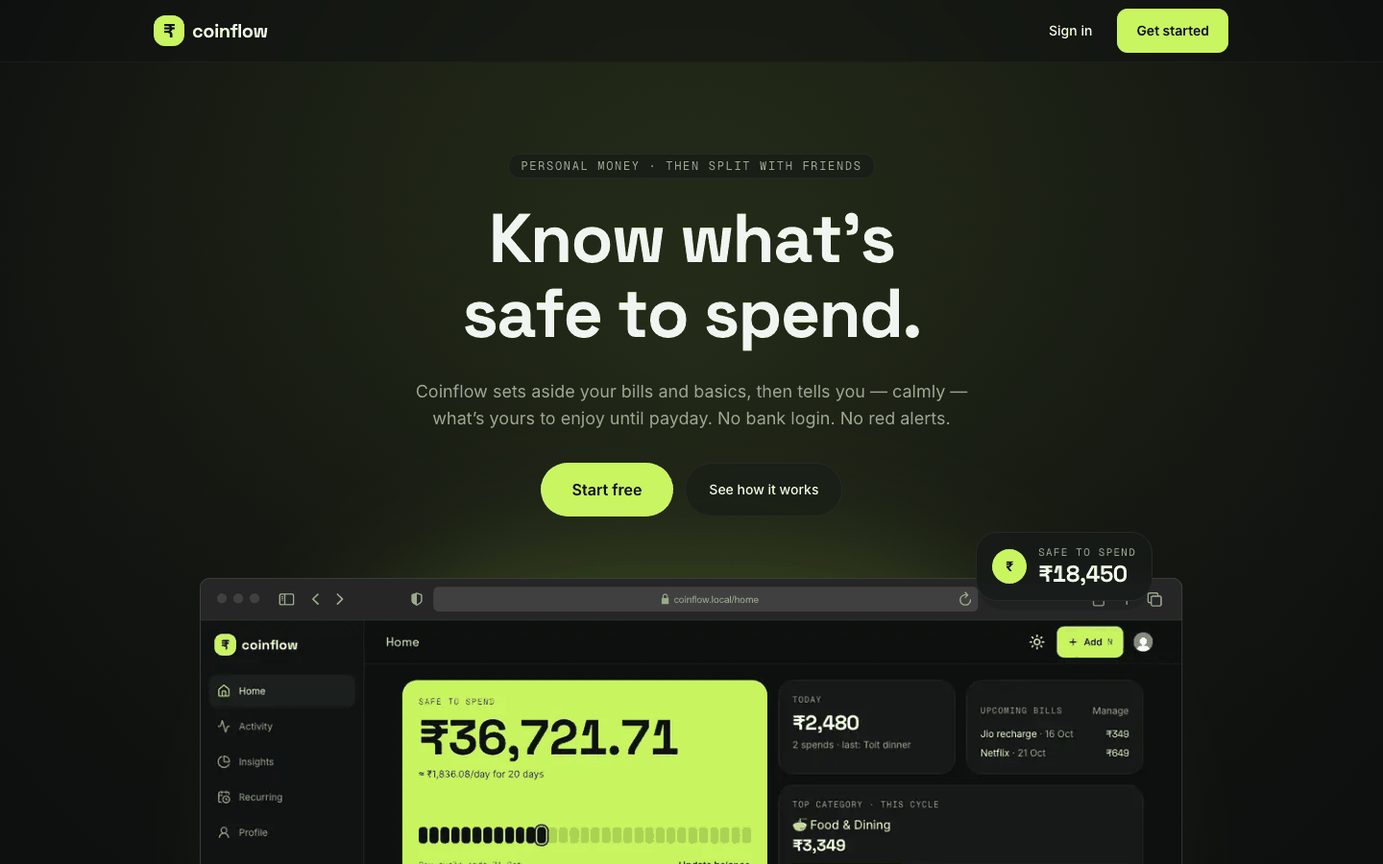
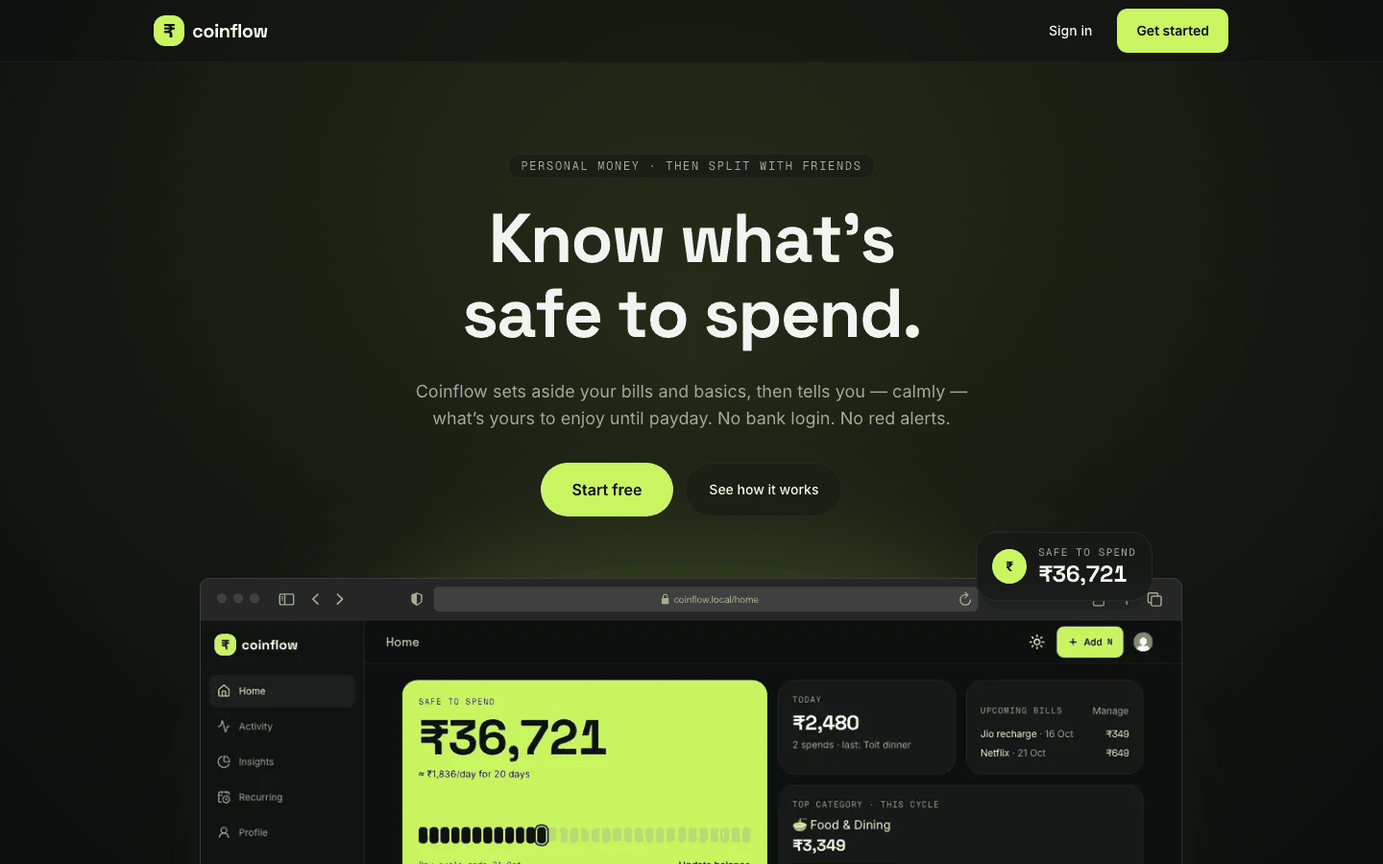
docs(hci): final-review fixes reflected; recaptured screens and Lighthouse
- Screens: landing, home, quick add, undo toast, insights (no capture-only
  style), insights budget and profile recaptured from the production build.
- Removed the limitations these fixes resolve (Insights overflow, chips not
  recent-first, slow ticker, Enter on toggles, hard-coded badge, clipped
  toggle, toast over the tabs); corrected Enter-to-save scope, ticker
  behaviour, focus rings (new contrast row), axe count and the reflow check.
- Lighthouse re-measured: landing 92/81, /home desktop 99, mobile median 91
  (was 77-79). Test run: verify at ce776b2.

diff --git a/docs/hci/part-a-rationale.md b/docs/hci/part-a-rationale.md
@@ -4,10 +4,9 @@ Part A of Coinflow is the personal-finance foundation. This document explains wh
 
 **Evidence conventions**
 
-- **Screenshots** are in [`screens/`](screens/), captured 2026-10-12 from a production build with `reducedMotion: 'reduce'`. Each screen has a `-1440` capture (1440×900, dark) and a `-390` capture (390×844, light).
+- **Screenshots** are in [`screens/`](screens/), captured 2026-10-12 from a production build with `reducedMotion: 'reduce'`. Each screen has a `-1440` capture (1440×900, dark) and a `-390` capture (390×844, light). Landing, Home, Quick add, Undo toast, both Insights screens and Profile were recaptured after the final review fixes; the rest are unchanged.
 - **Tests** are cited as `e2e/<file>.spec.ts › <title>` (Playwright, `apps/web/e2e/`), or by path under `apps/web/src/` for unit and integration tests. Code is cited by path under `apps/web/src/`.
-- **What was re-run for this document (2026-10-12, commit `4893b1c`):** six E2E spec files, in both the desktop and mobile projects. They were `a11y`, `keyboard` (desktop only), `reduced-motion`, `budgets`, `quick-add-undo` and `recurring-draft`. **33/33 passed**, including the one setup test.
-- **Not re-run:** `onboarding.spec.ts`, `theme.spec.ts` and `landing-signed-in.spec.ts`. They passed in the earlier full `pnpm verify` run at the same commit, which recorded 41/41 E2E, 261 unit and 118 integration tests (per the project's controller ledger).
+- **Test run behind this document:** a full `pnpm verify` at commit `ce776b2` (2026-10-12) passed: lint, typecheck, 273 unit, 119 integration, build, **54 E2E passed** (7 skipped: the phone-only reflow checks in the desktop project) and the landing Lighthouse gate.
 
 | Screen | Desktop (dark) | Mobile (light) | Account / state |
 |---|---|---|---|
@@ -16,14 +15,12 @@ Part A of Coinflow is the personal-finance foundation. This document explains wh
 | Quick add (₹450 · Food & Dining) | [quick-add-1440](screens/quick-add-1440.png) | [quick-add-390](screens/quick-add-390.png) | demo |
 | Undo toast | [undo-toast-1440](screens/undo-toast-1440.png) | [undo-toast-390](screens/undo-toast-390.png) | demo; undone after capture |
 | Activity | [activity-1440](screens/activity-1440.png) | [activity-390](screens/activity-390.png) | demo |
-| Insights (charts) | [insights-1440](screens/insights-1440.png) | [insights-390](screens/insights-390.png)¹ | demo |
-| Insights (over-plan soft plan) | [insights-budget-1440](screens/insights-budget-1440.png) | [insights-budget-390](screens/insights-budget-390.png)¹ | demo + Food & Dining plan of ₹3,000 |
+| Insights (charts) | [insights-1440](screens/insights-1440.png) | [insights-390](screens/insights-390.png) | demo |
+| Insights (over-plan soft plan) | [insights-budget-1440](screens/insights-budget-1440.png) | [insights-budget-390](screens/insights-budget-390.png) | demo + Food & Dining plan of ₹3,000 |
 | Recurring | [recurring-1440](screens/recurring-1440.png) | [recurring-390](screens/recurring-390.png) | demo |
 | Recurring draft on Home | [recurring-draft-1440](screens/recurring-draft-1440.png) | [recurring-draft-390](screens/recurring-draft-390.png) | E2E account: demo seed + one bill due today |
 | Onboarding step 3 | [onboarding-step3-1440](screens/onboarding-step3-1440.png) | [onboarding-step3-390](screens/onboarding-step3-390.png) | fresh E2E account |
 | Profile, motion setting | [profile-motion-1440](screens/profile-motion-1440.png) | [profile-motion-390](screens/profile-motion-390.png) | demo |
-
-¹ For the two mobile Insights captures, the screen-reader-only chart tables (`table.sr-only`) were hidden by a style applied only during capture. Those tables overflow the page at 390 px (§6, known bug, being fixed), and the overflow would otherwise push the bottom navigation out of frame.
 
 ---
 
@@ -53,11 +50,11 @@ Principles are cited as Nielsen heuristics (N1–N10), Fitts's law, Jakob's law,
 | **Whole-rupee display** (change from spec §7.1) | N8; honest rounding | The hero and the pace are **floored** to whole rupees. Paise are noise at 48–72 px, and flooring never overstates what the user has. Other amounts still show non-zero paise. | [home-390](screens/home-390.png); `lib/sts-display.test.ts › positive: whole rupees, rounded down, for both the headline and the pace` |
 | **Pay-cycle dot strip** | N2 match with the real world (payday-to-payday budgeting); status not by colour alone | One bar per day of the cycle: past days solid, future days at 15 % opacity, today ringed. A single `role="img"` reads "Day N of M in this pay cycle". | [home-1440](screens/home-1440.png); `lib/cycle-dots.test.ts › marks past, today and future days of the cycle` |
 | **Amount-first quick add** | Fitts's law; N7 efficiency | The order is amount, category, Save. Everything else is folded into "Note, date & method". Below 1024 px wide (narrow screens; the rule is width-based, not touch detection), an on-screen keypad replaces the OS keyboard (`inputMode="none"`). Save is full-width, 56 px, pinned to the sheet bottom (thumb zone, never below the fold at 390×844), and repeats the amount ("Save ₹450"). | [quick-add-390](screens/quick-add-390.png); `e2e/quick-add-undo.spec.ts › quick add in ≤ 3 interactions, then undo restores Safe-to-Spend` |
-| **Category chips** | Recognition over recall; N6; WCAG 2.1.1 | Categories are visible 48 px chips (emoji plus name), not a dropdown. They form an ARIA `radiogroup` with a roving tab stop: Tab enters, arrows move and select, Space selects. The emoji is `aria-hidden`. | [quick-add-1440](screens/quick-add-1440.png); `e2e/keyboard.spec.ts › quick add is completable from the keyboard: N, amount, Tab to a category, Space, Enter` |
-| **Enter-to-save on a chip** (added during testing) | N7 accelerators; keyboard-first logging (spec §4.6) | Enter on a chip (`role="radio"`) submits the form. Before this fix, keyboard users could not finish. A held Enter and IME composition are both ignored, and fields keep their native Enter. | same keyboard spec; `lib/quick-add-keys.test.ts › submits on Enter over a radio chip or toggle` |
+| **Category chips** | Recognition over recall; N6; N7; WCAG 2.1.1 | Categories are visible 48 px chips (emoji plus name), not a dropdown, ordered **most recently used first** for the chosen kind (spec §4.6), then the built-in order. The order is fixed when the sheet opens, so chips never move under the pointer. They form an ARIA `radiogroup` with a roving tab stop: Tab enters, arrows move and select, Space selects. The emoji is `aria-hidden`. | [quick-add-1440](screens/quick-add-1440.png); `lib/category-order.test.ts › puts categories first in order of their newest use, then the rest in server order`; `e2e/keyboard.spec.ts › quick add is completable from the keyboard: N, amount, Tab to a category, Space, Enter` |
+| **Enter-to-save on a chip** (added during testing) | N7 accelerators; keyboard-first logging (spec §4.6); N5 | Enter on a **category chip** submits the form; before this, keyboard users could not finish. Enter on the Expense/Income or "Paid with" toggles keeps its native meaning (select), because intercepting it saved the old value. A held Enter and IME composition are ignored, and fields keep their native Enter. | same keyboard spec; `lib/quick-add-keys.test.ts › submits on Enter over a category chip`; `› leaves the Expense/Income toggle to its native Enter (selects, does not save the old value)` |
 | **⌘K / Ctrl K palette ("Ask Coinflow" pill)** | Jakob's law (the ⌘K convention from Slack, Linear and VS Code); N7; N10 | The pill opens a palette that navigates, switches theme, searches, and parses "250 food lunch" into a prefilled quick add; the placeholder teaches the syntax. **N** opens quick add (not while typing). Part C turns the same pill into the agent, so its location is learned now. | [home-1440](screens/home-1440.png); `lib/quick-command.test.ts › "450 chai" style input resolves through synonyms and keeps the word as the note` |
-| **Undo toast + ⌘Z** | N3 user control and freedom; N1; SRS §4.1 10 s undo | Every ledger create, edit and delete raises a toast ("Added ₹450 expense") with Undo and a seconds countdown. ⌘Z / Ctrl Z undoes the latest change, except inside text fields. The toast shows for **10 s**; the server accepts undo for **30 s** to cover slow networks and hover-paused toasts. | [undo-toast-1440](screens/undo-toast-1440.png) (hero ₹36,721 → ₹36,271, exactly ₹450); `e2e/quick-add-undo.spec.ts › quick add in ≤ 3 interactions, then undo restores Safe-to-Spend`; `server/services/audit.int.test.ts › refuses after the 30 s window` |
-| **Recurring drafts (staging)** | SRS staging principle; N3; N5 error prevention | A due bill becomes a **draft** under "Waiting for you", with Confirm / Edit / Skip and the line "Scheduled items don't count as spent until you confirm them." Drafts already count as committed money, so **confirming never changes Safe-to-Spend**. §6 lists one same-day edge case. | [recurring-draft-1440](screens/recurring-draft-1440.png) (same seed plus a ₹119 draft; the hero is ₹119 below [home-1440](screens/home-1440.png)); `e2e/recurring-draft.spec.ts › a due bill appears as a draft and can be confirmed`; `server/services/safe-to-spend.int.test.ts › confirming a due-today recurring draft after a same-day check-in leaves Safe-to-Spend unchanged` |
+| **Undo toast + ⌘Z** | N3 user control and freedom; N1; SRS §4.1 10 s undo | Every ledger create, edit and delete raises a toast ("Added ₹450 expense", "Paused Netflix") with Undo and a seconds countdown. Below 1024 px it sits above the Ask pill and the tabs, so navigation stays usable for the 10 s. ⌘Z / Ctrl Z (hint shown per platform) undoes the latest change, except inside text fields. The toast shows for **10 s**; the server accepts undo for **30 s** to cover slow networks and hover-paused toasts. | [undo-toast-1440](screens/undo-toast-1440.png) (hero ₹36,721 → ₹36,271, exactly ₹450); `e2e/quick-add-undo.spec.ts › quick add in ≤ 3 interactions, then undo restores Safe-to-Spend`; `server/services/audit.int.test.ts › refuses after the 30 s window` |
+| **Recurring drafts (staging)** | SRS staging principle; N3; N5 error prevention | A due bill becomes a **draft** under "Waiting for you", with Confirm / Edit / Skip and the line "Scheduled items don't count as spent until you confirm them." Drafts already count as committed money, so **confirming never changes Safe-to-Spend**. After Confirm or Skip, focus moves to the next draft's Confirm, else the Recent heading. §6 lists one same-day edge case. | [recurring-draft-1440](screens/recurring-draft-1440.png) (same seed plus a ₹119 draft; the hero is ₹119 below [home-1440](screens/home-1440.png)); `e2e/recurring-draft.spec.ts › a due bill appears as a draft and can be confirmed` (also asserts focus); `server/services/safe-to-spend.int.test.ts › confirming a due-today recurring draft after a same-day check-in leaves Safe-to-Spend unchanged` |
 | **Soft budgets with neutral overflow** | Non-punitive feedback; status not by colour alone | Plans are "Optional monthly guides … Going over is just information, no alarms." Going over adds a **hatched** end segment and "₹349 over plan" in warm grey (`--neutral-negative`), not red. The slider is keyboard-operable. | [insights-budget-1440](screens/insights-budget-1440.png); `e2e/budgets.spec.ts › budget slider is keyboard-operable and over-plan copy is neutral` (asserts the label colour is not saturated red) |
 | **Category comparison: "vs the previous N days"** (change from spec §4.9) | N2; N4 consistency; not colour alone | The spec asked for this cycle vs last cycle per category. The build instead compares any selected range with the **previous window of the same length**, and the caption says so. Reason: halfway through a cycle, a partial cycle against a full one would always look like an improvement, and a same-length window also works for the 3-month and custom ranges. The previous bars are hatched and labelled. | [insights-1440](screens/insights-1440.png); `components/insights/category-chart.tsx`; `server/services/insights.int.test.ts › groups by IST day and compares with the previous window` |
 | **Balance check-in instead of bank login** | N2; trust (no third-party bank access); low effort | Onboarding step 3 asks "Roughly how much is in your account right now?" and says "No bank login. A rough number is fine…". A live ₹ preview shows how the input was parsed ("₹42,500"). "Update balance" on the hero corrects drift later. | [onboarding-step3-390](screens/onboarding-step3-390.png); `server/services/safe-to-spend.int.test.ts › uses the latest check-in and only confirmed activity after it` |
@@ -72,7 +69,7 @@ Principles are cited as Nielsen heuristics (N1–N10), Fitts's law, Jakob's law,
 
 ## 3. Motion rationale
 
-One preference (`components/providers/motion-pref.tsx`: `on`/`off`/`system`) gates all motion; heavy effects wait until the OS setting is known. Under reduced motion, `MotionConfig` is `reducedMotion="always"` and a global `!important` rule in `app/globals.css` (on `html[data-reduce-motion="true"]`) sets:
+One preference (`components/providers/motion-pref.tsx`: `on`/`off`/`system`) gates all motion; heavy effects wait until the OS setting is known. Under reduced motion, `MotionConfig` is `reducedMotion="always"` and a global `!important` rule in `app/globals.css` (on `html[data-reduce-motion="true"]`, mirrored under `prefers-reduced-motion: reduce` so CSS keyframes are already stopped before hydration) sets:
 
 - CSS animations to 1 ms.
 - Transitions to **120 ms**, within the spec's "≤ 150 ms fades".
@@ -84,10 +81,10 @@ Every built §7.2 component, with its fallback as found in code:
 | Dither WebGL (React Bits) | Landing hero | Delight | Not mounted; static CSS gradient. Dimmed so text stays ≥ 4.5:1 (§4.3). |
 | Split Text (CSS-only `SplitHeading`) | Landing h1 | Delight | `animation: none`. Server-rendered; fully visible within ~650 ms when animated. |
 | Animated Beam + GSAP ScrollTrigger (Magic UI) | Landing money-flow | Continuity (income → bills → safe-to-spend) | Static connectors; beams and the scroll rise are not rendered. |
-| Number Ticker (Magic UI) via `AmountTicker` | Home, onboarding Done, landing | Feedback | Static text. `data-amount` and an sr-only label always carry the final value. |
-| Counter (React Bits) via `AmountRoll` | Quick-add readout | Feedback per keypress | Static text; when animated, the retuned spring settles in < 300 ms. |
+| Number Ticker (Magic UI, adapted to a 0.8 s tween) via `AmountTicker` | Home, onboarding Done, landing | Feedback | Static text. `data-amount` and an sr-only label always carry the final value. When animated, Home and onboarding start from the real amount (the server HTML already shows it) and only later changes count; landing counts up from ₹0. |
+| Counter (React Bits) via `AmountRoll` | Quick-add readout | Feedback per keypress | Static text at the same 40–48 px size; when animated, the retuned spring settles in < 300 ms. |
 | Spotlight Card via `Tile`; Magic Card | App tiles; landing bento | Delight | Plain bordered section, no cursor effect. |
-| Blur Fade (Magic UI) via `Reveal` | Home (40 ms stagger), Insights, Recurring, landing | Continuity (reading order) | Plain `<div>`; content is present immediately. |
+| Blur Fade (Magic UI) via `Reveal` | Home tiles (40 ms stagger; not the Safe-to-spend hero, which paints without JS), Insights, Recurring, landing | Continuity (reading order) | Plain `<div>`; content is present immediately. |
 | Animated List (Magic UI) | Home "Recent" | Continuity (new row slides in) | Plain `<ul>`. |
 | Stepper (React Bits, adapted) | Onboarding | Continuity (direction) | 120 ms opacity fade; spinner static. |
 | Elastic Slider (React Bits) | Soft plans | Feedback | `elastic={false}`; keyboard stepping unchanged. |
@@ -95,7 +92,7 @@ Every built §7.2 component, with its fallback as found in code:
 | Animated Circular Progress (Magic UI) | Undo countdown | Status (time left) | Updates once a second instead of every 100 ms; the seconds label stays. |
 | Confetti (Magic UI / canvas-confetti), once | Onboarding Done | Delight | Never fires (preference gate + `disableForReducedMotion`). |
 | Animated Theme Toggler (Magic UI) | Top bar | Feedback | `animated={false}`; instant flip, no view transition. |
-| Lenis smooth scroll | Pages mounting `AppProviders` | Continuity | Not mounted. E2E asserts no `html.lenis` **on the landing page only**; on app pages it asserts `data-reduce-motion="true"` and no canvas (`e2e/reduced-motion.spec.ts`). |
+| Lenis smooth scroll | Pages mounting `AppProviders`; nested scrollers (palette list, sheets) keep the wheel | Continuity | Not mounted. E2E asserts no `html.lenis` **on the landing page only**; on app pages it asserts `data-reduce-motion="true"` and no canvas (`e2e/reduced-motion.spec.ts`). |
 | Recharts entry | Insights | Continuity | `isAnimationActive={false}`. |
 | Decorative set: Safari frame, Shimmer / Hover buttons, Marquee, Scroll Reveal, Progressive Blur, Border Beam (drafts tile) | Landing; Activity; Home | Delight / affordance | Safari and Progressive Blur are static. Shimmer is cut to 1 ms. Marquee and Scroll Reveal become static text (one sr-only copy carries it). Border Beam is not rendered. |
 
@@ -107,9 +104,9 @@ Every built §7.2 component, with its fallback as found in code:
 
 ### 4.1 axe
 
-`e2e/a11y.spec.ts` runs axe-core (`wcag2a`, `wcag2aa`, `wcag21aa`) and fails on any serious or critical violation. It covers these routes: `/`, `/sign-in`, `/sign-up`, `/onboarding` (fresh user), `/home`, `/activity`, `/insights`, `/recurring` and `/profile`. It also covers quick add, filled in and then with the undo toast fully faded in. Every route runs in both projects, for 20 checks. **Result on 2026-10-12: 20/20 passed, 0 serious or critical violations.**
+`e2e/a11y.spec.ts` runs axe-core (`wcag2a`, `wcag2aa`, `wcag21aa`) and fails on any serious or critical violation. It covers these routes: `/`, `/sign-in`, `/sign-up`, `/onboarding` (fresh user), `/home`, `/activity`, `/insights`, `/recurring` and `/profile`. It also covers quick add, filled in and then with the undo toast fully faded in, and the data states of `/insights` (chart tables present) and `/recurring` (a paused bill), seeded for the E2E user. Every check runs in both projects, for 24 checks. **Result: see the run recorded in the preface; 0 serious or critical violations.**
 
-The only exclusion is `.cl-footer` on the sign-in and sign-up pages, which is Clerk's third-party development-instance badge. Note that axe did not detect the mobile `/insights` overflow listed in §6.
+The only exclusion is `.cl-footer` on the sign-in and sign-up pages, which is Clerk's third-party development-instance badge. axe does not test reflow (WCAG 1.4.10), so `e2e/reflow.spec.ts` asserts that the landing page, onboarding and every app route, with data, never scroll sideways at 390 or 320 px, with and without reduced motion. That check found and now guards the `/insights` chart-table overflow fixed in the final review.
 
 ### 4.2 Keyboard-only walkthrough
 
@@ -119,6 +116,8 @@ The only exclusion is `.cl-footer` on the sign-in and sign-up pages, which is Cl
 - `e2e/keyboard.spec.ts › onboarding can be finished with Tab and Enter only`. All seven steps can be completed with Tab and Enter, and each step's visible "Step N of 7" text is asserted.
 - `e2e/quick-add-undo.spec.ts › quick add in ≤ 3 interactions, then undo restores Safe-to-Spend`. This asserts that ⌘Z / Ctrl Z typed inside the palette's text field does **not** trigger an app undo.
 - `e2e/budgets.spec.ts › budget slider is keyboard-operable and over-plan copy is neutral`. ArrowRight steps the plan slider to ₹5,500, as asserted through `aria-valuetext`.
+- `e2e/onboarding.spec.ts › Continue with a half-entered bill stops on the Bills step instead of dropping it`. The message appears and focus moves to "Add to schedule".
+- `e2e/recurring-draft.spec.ts › a due bill appears as a draft and can be confirmed`. After the last draft, focus lands on the Recent heading, not `<body>`.
 
 **Implemented, not separately tested**
 
@@ -126,12 +125,14 @@ The only exclusion is `.cl-footer` on the sign-in and sign-up pages, which is Cl
 - **⌘Z / Ctrl Z** undoes the latest change outside text fields (`components/undo/use-undo-shortcut.ts`). The E2E test uses the toast's Undo button instead.
 - **Esc** closes dialogs and sheets (Radix default).
 - **Arrow keys** move between category chips and select them (`components/quick-add/category-chips.tsx:18`).
-- **Focus returns to the opener** (or the visible Add button) when quick add closes (`components/quick-add/quick-add-sheet.tsx:285–296`).
-- **Focus after a delete** moves to the next row, else the previous row, else the `<h1>`. This is implemented in Activity (`components/activity/activity-view.tsx:66–74`) and Recurring (`components/recurring/recurring-view.tsx:89–96`).
+- **Focus returns to the opener** (or the visible Add button) when quick add closes (`components/quick-add/quick-add-sheet.tsx:291–306`).
+- **Focus after a delete** moves to the next row, else the previous row, else the `<h1>`. This is implemented in Activity (`components/activity/activity-view.tsx:66–75`) and Recurring (`components/recurring/recurring-view.tsx:93–101`).
+- **Focus is never hidden** behind the sticky top bar, the tabs or the Ask pill (WCAG 2.4.11): `scroll-padding` on the root (`app/globals.css`) makes the browser scroll a focused control clear of them. Checked by tabbing through Home, Activity, Recurring and Profile at 390 and 1440 px (0 obscured stops); not an automated test.
+- **Focus rings** are the solid `--ring` token (6.13:1 on light cards, 14.07:1 on dark); the earlier 50–60 % rings measured about 2.2–2.5:1 in the light theme.
 
 ### 4.3 Contrast
 
-`pnpm --filter web test src/styles.tokens.test.ts` gives **40/40 passed**. The test reads both themes' tokens from `globals.css` and enforces 13 pairs per theme. Six key pairs are shown below, with ratios from the same WCAG formula as `lib/contrast.ts`.
+`pnpm --filter web test src/styles.tokens.test.ts` gives **45/45 passed**. The test reads both themes' tokens from `globals.css` and enforces 15 pairs per theme, and fails if any file uses a translucent focus ring (`ring-ring/N`). Seven key pairs are shown below, with ratios from the same WCAG formula as `lib/contrast.ts`.
 
 | Pair | Minimum | Light | Dark |
 |---|---|---|---|
@@ -141,22 +142,23 @@ The only exclusion is `.cl-footer` on the sign-in and sign-up pages, which is Cl
 | `neutral-negative` (over plan) on `card` | 4.5 | 5.91 | 8.21 |
 | slider `track` on `card` (non-text) | 3 | 3.34 | 3.71 |
 | `foreground` (thumb border) on `track` | 3 | 5.40 | 4.34 |
+| focus `ring` on `card` / `background` (non-text) | 3 | 6.13 / 5.63 | 14.07 / 15.17 |
 
 The file also checks text over the landing dither's worst-case and brightest pixels (lowest 5.01:1) and the money-flow beam path (≥ 3:1; 4.23 light, 4.48 dark). The neutral over-plan colour passes AA in both themes, so "non-punitive" does not mean "low contrast".
 
 ### 4.4 Lighthouse
 
-The following is copied from [`evidence/lighthouse.md`](evidence/lighthouse.md), measured on the production build on 2026-10-12. The gated landing check also runs in `pnpm verify`, which recorded desktop 92/100 at `4893b1c`.
+The following is copied from [`evidence/lighthouse.md`](evidence/lighthouse.md), measured on the production build on 2026-10-12 after the final review fixes. The gated landing check also runs in `pnpm verify`, which recorded desktop 93 / mobile 80 at `ce776b2`.
 
 | Route | Preset | Performance | Accessibility | Target | Result |
 |---|---|---|---|---|---|
-| `/` (landing) | Desktop | 94 | 100 | Perf ≥ 75, A11y ≥ 95 (gated) | PASS |
-| `/` (landing) | Mobile | 82 | 100 | informational | — |
-| `/home` | Desktop | 98 | 100 | Perf ≥ 85, A11y ≥ 95 | PASS |
-| `/home` | Mobile | 79 (runs: 79, 77, 79, 79) | 100 | Perf ≥ 85, A11y ≥ 95 | A11y PASS, **Performance MISSES** |
+| `/` (landing) | Desktop | 92 | 100 | Perf ≥ 75, A11y ≥ 95 (gated) | PASS |
+| `/` (landing) | Mobile | 81 | 100 | informational | — |
+| `/home` | Desktop | 99 | 100 | Perf ≥ 85, A11y ≥ 95 | PASS |
+| `/home` | Mobile | 91 median (runs: 91, 91, 82, 91, 91, 91, 91) | 100 | Perf ≥ 85, A11y ≥ 95 | PASS (6 of 7 runs) |
 | `/activity`, `/insights`, `/recurring`, `/profile` | Desktop / Mobile | not measured | 100 / 100 | A11y ≥ 95 | PASS |
 
-Cause of the mobile `/home` miss: **Clerk development keys** add a ~1.7 s dev-instance handshake, and the root layout loads the whole Clerk bundle; simulated mobile throttling amplifies both (the landing page's 82 has the same cause). Production keys were not measured, so the miss stands.
+Before the final review, mobile `/home` measured 77–79. The Safe-to-spend hero is now server-rendered with its real number and no entrance animation, so it paints before JavaScript runs (mobile LCP 3.5 s in the typical run). The one 82 run had a 4.5 s LCP. All runs use **Clerk development keys**, whose dev-instance handshake also holds the landing page's mobile score near 80; production keys were not measured.
 
 ---
 
@@ -199,26 +201,18 @@ VM-2 and VM-3 need Part B.
 - **Same-day draft double count.** A recurring bill confirmed *before* a same-day check-in is counted again, because no `confirmedAt` orders the two events. Confirming after a check-in is correct and tested. Fix: a `confirmed_at` column.
 - **Bill paid before the check-in.** A pending draft for such a bill stays in R until it is confirmed or skipped (spec §4.11.3).
 - **Undo timing.** The toast's button works up to the server's 30 s limit, then shows "It's too late to undo that change."
-- **Enter on toggles.** Enter on the Expense/Income or Paid-with toggles also saves, consistent with the chip rule. Needs checking in the study.
+- **Recent-first chips need history in the cache.** The order comes from the recent list already loaded (Home, Activity). Opening quick add first on another page falls back to the built-in order.
 
 **Deviations from the spec**
 
 - **Whole-rupee hero** (§7.1): see §2.
 - **Visible Delete below 1024 px** (§4.7): see §2.
 - **Same-length comparison window instead of this-cycle vs last-cycle** (§4.9): a fair comparison mid-cycle, and it works for every range.
-- **Category chips are not "recent first"** (§4.6). The chips use a fixed built-in order.
 - **Landing money-flow** is scroll-scrubbed, not pinned (§4.2).
-- **Number Ticker on Home** is still short of its final value about **4.5 s** after load. The final value is always in `data-amount` and the sr-only label, and reduced motion shows it at once. Settling within about 1 s is queued for the final review.
 
-**Issues found while capturing** (reported, not fixed)
+**Demo data.** The demo account was seeded before the seed stopped repeating a spend on the same day, so its history (and the landing shot) still shows two "Toit dinner" rows on one day. It was not reseeded; new seeds do not repeat.
 
-1. **`/insights` at 390 px lays out 707 px wide.** The `table.sr-only` chart tables (`insights/spend-chart.tsx:82`, `insights/category-chart.tsx:63`) do not clip, which pushes the fixed tab bar and the Ask pill off-screen (WCAG 1.4.10 Reflow). This is the known overflow bug behind screen-index footnote ¹.
-2. **Profile at 390 px clips the selected "✓ Match device" toggle** ([profile-motion-390](screens/profile-motion-390.png)).
-3. **The mobile undo toast overlaps the tab-bar labels** for 10 s ([undo-toast-390](screens/undo-toast-390.png)).
-4. **The landing product shot is out of date.** It predates the whole-rupee change (₹36,721.71), and the hard-coded "₹18,450" badge does not match it ([landing-1440](screens/landing-1440.png)).
-5. **The demo seed duplicates "Toit dinner"** on the same day.
-
-**Performance.** Mobile `/home` Lighthouse is 77–79 against 85 under development keys (§4.4). The next steps are to scope `ClerkProvider` to the route groups that need it and to measure with production keys.
+**Performance.** Mobile `/home` now meets 85 in 6 of 7 runs (median 91) under development keys, and the landing page is about 80 on mobile (§4.4). The next steps are to scope `ClerkProvider` to the route groups that need it and to measure with production keys.
 
 **Future work**
 

diff --git a/docs/hci/evidence/lighthouse.md b/docs/hci/evidence/lighthouse.md
@@ -7,27 +7,29 @@ Measured 2026-10-12 by `pnpm lh` (scripts/lighthouse-landing.ts). Server warmed 
 
 | Preset | Performance | Accessibility | Role |
 |---|---|---|---|
-| Desktop | 94 | 100 | Gate (Performance >= 75, Accessibility >= 95): PASS |
-| Mobile (Lighthouse default) | 82 | 100 | Informational, not gated |
+| Desktop | 92 | 100 | Gate (Performance >= 75, Accessibility >= 95): PASS |
+| Mobile (Lighthouse default) | 81 | 100 | Informational, not gated |
 
 Mobile is measured under Clerk development keys, which add a ~1.7 s handshake that a production instance will not have.
 <!-- LANDING:END -->
 
 ## App routes (signed in as the demo user, production build)
 
-Measured 2026-10-12 with Lighthouse 13.5 against `next start -p 3100`, driving a Chromium that was signed in through
-`@clerk/testing` (`clerk.signIn`, ticket path, no email sent) so Lighthouse shares its session. Storage reset disabled so
-cookies survive; one discarded warm-up run first. Not part of `pnpm verify` because it needs auth. Data: 82 demo transactions.
+Re-measured 2026-10-12 after the final review fixes (commit `ce776b2`), with Lighthouse 13.5 against `next start -p 3100`,
+driving a Chromium signed in through `@clerk/testing` (`clerk.signIn`, ticket path, no email sent) so Lighthouse shares its
+session. Storage reset disabled so cookies survive; one discarded warm-up run first; a run that ends in a Lighthouse
+`runtimeError` (no trace recorded) is re-run, not scored. Not part of `pnpm verify` because it needs auth. Data: 82 demo transactions.
 
 | Route | Preset | Performance | Accessibility | Target | Result |
 |---|---|---|---|---|---|
-| `/home` | Desktop | 98 | 100 | Perf >= 85, A11y >= 95 | PASS |
-| `/home` | Mobile | 79 (runs: 79, 77, 79, 79) | 100 | Perf >= 85, A11y >= 95 | A11y PASS, **Performance MISSES (77-79)** |
+| `/home` | Desktop | 99 (runs: 99, 99, 99) | 100 | Perf >= 85, A11y >= 95 | PASS |
+| `/home` | Mobile | 91 median (runs: 91, 91, 82, 91, 91, 91, 91) | 100 | Perf >= 85, A11y >= 95 | PASS (6 of 7 runs) |
 | `/activity` | Desktop / Mobile | not measured | 100 / 100 | A11y >= 95 | PASS |
 | `/insights` | Desktop / Mobile | not measured | 100 / 100 | A11y >= 95 | PASS |
 | `/recurring` | Desktop / Mobile | not measured | 100 / 100 | A11y >= 95 | PASS |
 | `/profile` | Desktop / Mobile | not measured | 100 / 100 | A11y >= 95 | PASS |
 
-Mobile `/home` is under Clerk development keys (the dev-instance handshake and the ~1.7 s of Clerk JS add to the mobile
-simulated throttling), the same condition that holds the landing page's mobile score at 82. The spec's 85 target is therefore met
-on desktop and missed on mobile in this environment; production keys were not measured.
+Mobile `/home` LCP is 3.5 s in the typical run (4.5 s in the 82 run). Before the fixes the same setup gave desktop 98 and mobile
+77-79; the change between the two is that the Safe-to-spend hero is now server-rendered with its real number and no entrance
+animation, so it paints without waiting for JavaScript. Runs are still under Clerk development keys. An earlier attempt the same
+morning, while another workload held the machine at a load average above 30, gave mobile 60-91; those runs are not used.
